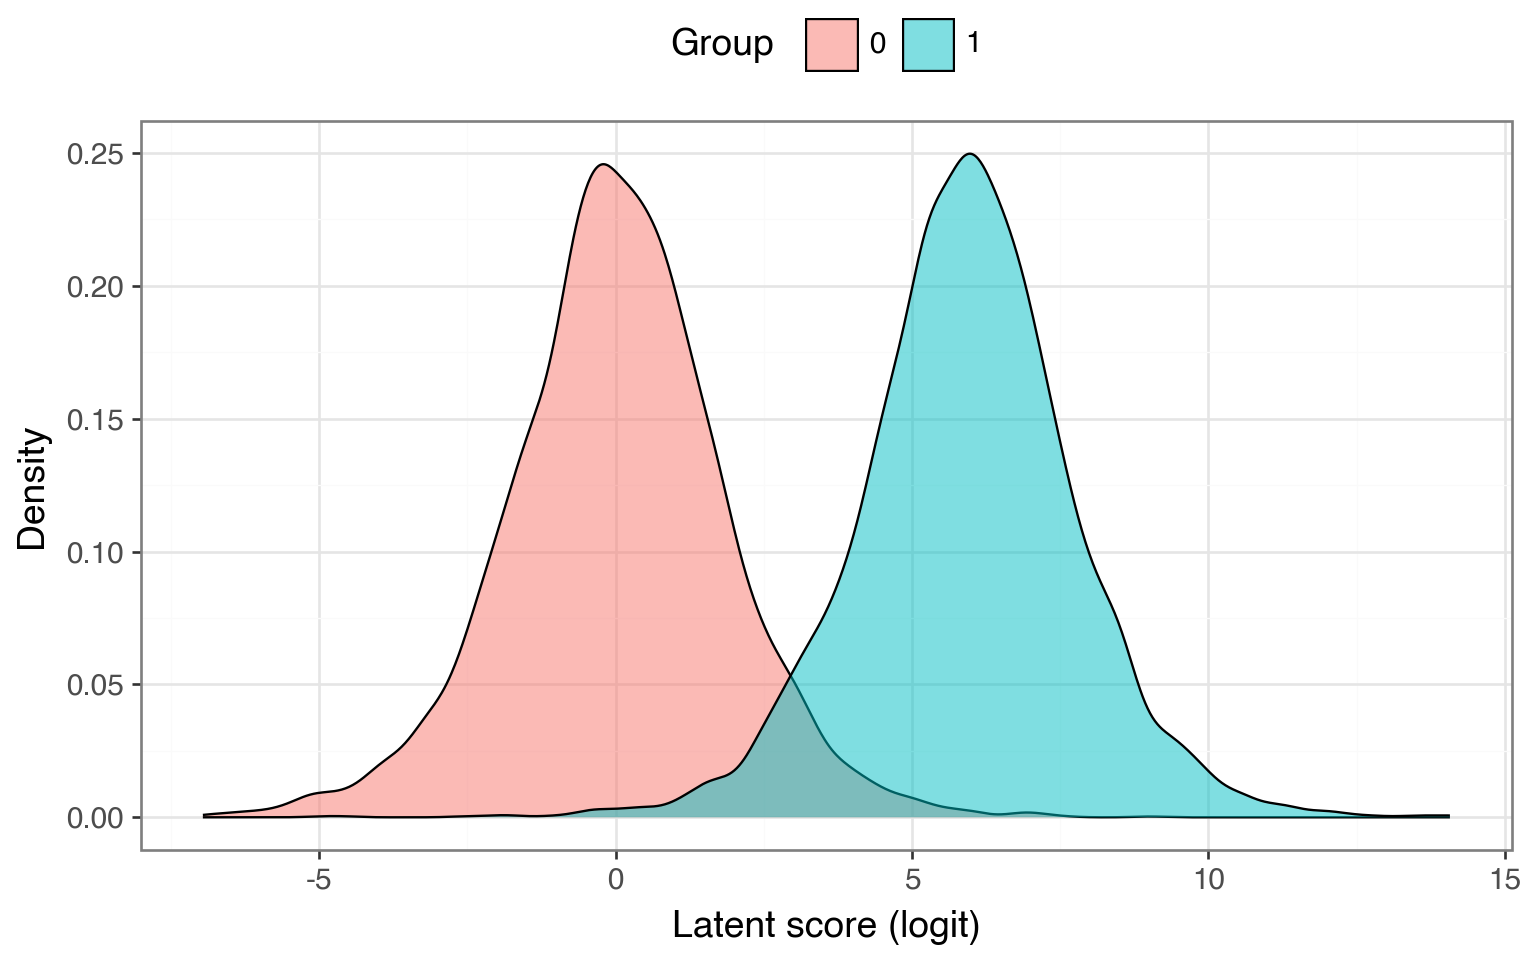
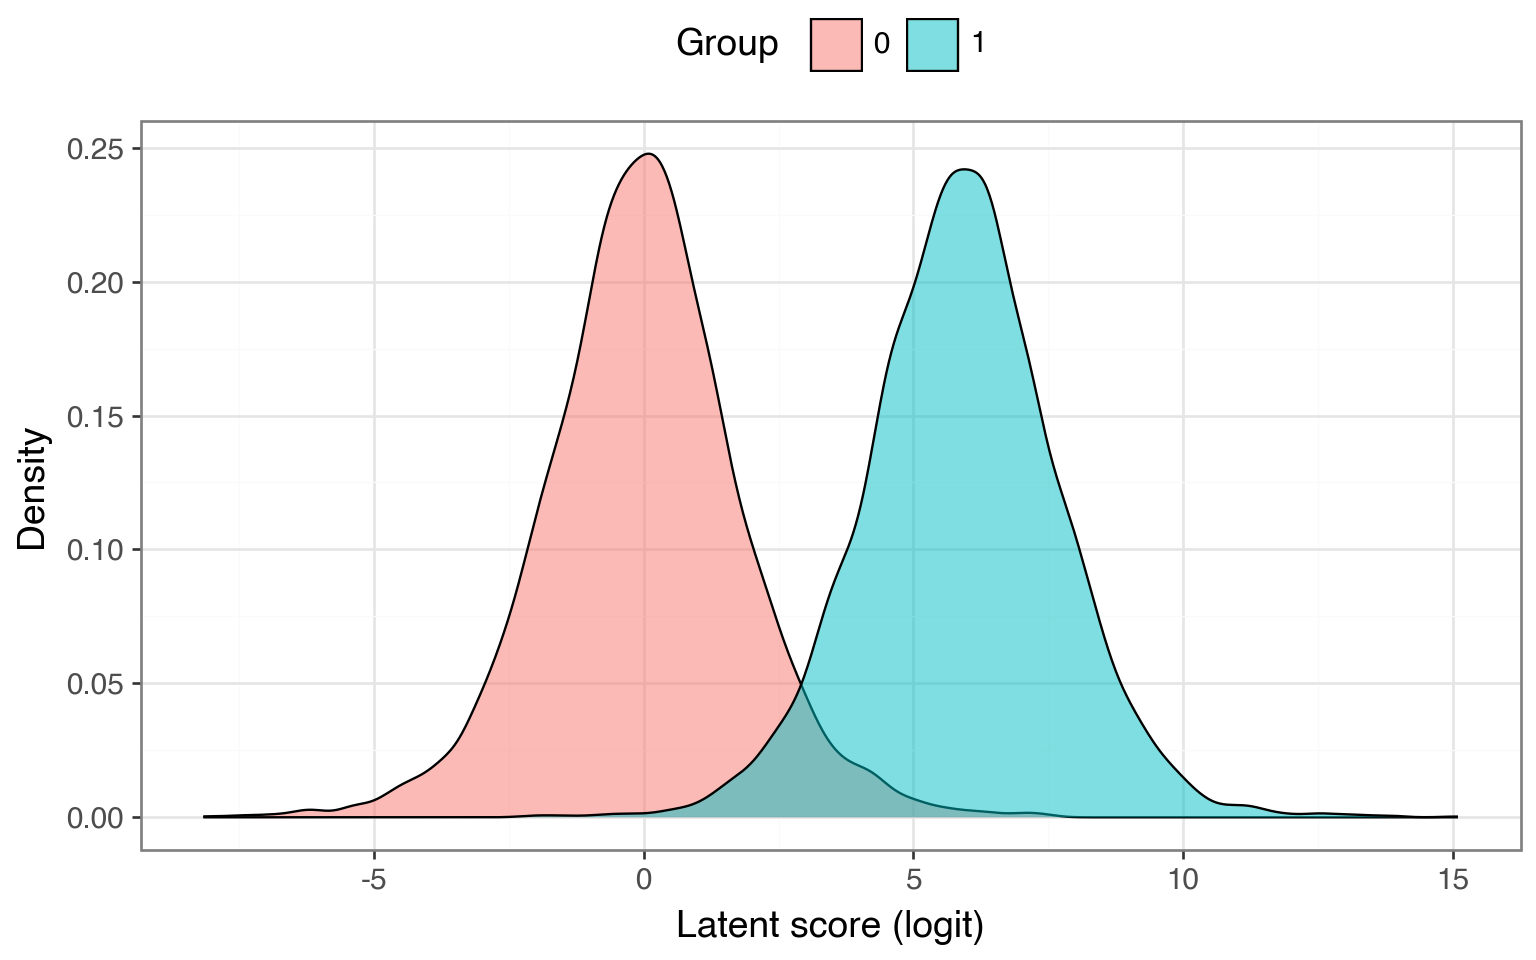
checkpoint: fix mu typo html

diff --git a/docs/posts/2026-03-31-recall-precision-tradeoff/index.html b/docs/posts/2026-03-31-recall-precision-tradeoff/index.html
@@ -305,7 +305,7 @@ p(y = 1 | \hat{y} = 1) &amp;= \frac{%
 \]</span></p>
 <p>and plug in the numbers from our table. But we can’t actually compute precision until we’ve specified the base rate of the positive and negative classes<a href="#fn1" class="footnote-ref" id="fnref1" role="doc-noteref"><sup>1</sup></a>. That’s <span class="math inline">\(p(y=1)\)</span> and <span class="math inline">\(p(y=0)\)</span> in the equation above. We know from existing data that the base rate of fraudulent transactions is less than 1%. Let’s round that up to 1% so that <span class="math inline">\(p(y=1) = 0.01\)</span> and <span class="math inline">\(p(y=0) = 0.99\)</span>.</p>
 <p>Now we can finally compute precision for our seemingly strong model</p>
-<div id="99e8ceb0" class="cell" data-execution_count="1">
+<div id="3e67bdd7" class="cell" data-execution_count="1">
 <div class="code-copy-outer-scaffold"><div class="sourceCode cell-code" id="cb1"><pre class="sourceCode python code-with-copy"><code class="sourceCode python"><span id="cb1-1"><a href="#cb1-1" aria-hidden="true" tabindex="-1"></a>tpr <span class="op">=</span> <span class="fl">0.95</span></span>
 <span id="cb1-2"><a href="#cb1-2" aria-hidden="true" tabindex="-1"></a>fpr <span class="op">=</span> <span class="fl">0.05</span></span>
 <span id="cb1-3"><a href="#cb1-3" aria-hidden="true" tabindex="-1"></a></span>
@@ -323,7 +323,7 @@ p(y = 1 | \hat{y} = 1) &amp;= \frac{%
 <h2 class="anchored" data-anchor-id="sweeping-through-different-rates">Sweeping through different rates</h2>
 <p>Okay, so we’ve seen just how bad precision can get with a very low base rate and a model that otherwise looks strong. Let’s build some intuition for what precision looks like across different combinations of TPR, FPR, and base rate. You’d expect that increasing TPR or base rate, or <em>decreasing</em> FPR, should improve precision — but by how much?</p>
 <p>To find out, we’ll apply the same Bayes’ theorem calculation to a grid of these rates. In the plot below, each panel fixes the FPR. The colored lines show how precision varies with TPR at different base rates.</p>
-<div id="4b1d15fc" class="cell" data-execution_count="2">
+<div id="e247c715" class="cell" data-execution_count="2">
 <details class="code-fold">
 <summary>Code</summary>
 <div class="code-copy-outer-scaffold"><div class="sourceCode cell-code" id="cb3"><pre class="sourceCode python code-with-copy"><code class="sourceCode python"><span id="cb3-1"><a href="#cb3-1" aria-hidden="true" tabindex="-1"></a><span class="im">import</span> numpy <span class="im">as</span> np</span>
@@ -381,7 +381,7 @@ p(y = 1 | \hat{y} = 1) &amp;= \frac{%
 <span id="cb3-53"><a href="#cb3-53" aria-hidden="true" tabindex="-1"></a>    )</span>
 <span id="cb3-54"><a href="#cb3-54" aria-hidden="true" tabindex="-1"></a>)</span></code></pre></div><button title="Copy to Clipboard" class="code-copy-button"><i class="bi"></i></button></div>
 </details>
-<div class="cell-output cell-output-display" data-execution_count="319">
+<div class="cell-output cell-output-display" data-execution_count="2">
 <div class="quarto-figure quarto-figure-center">
 <figure class="figure">
 <p><img src="index_files/figure-html/cell-3-output-1.png" class="quarto-figure quarto-figure-center figure-img" width="864" height="576"></p>
@@ -403,8 +403,8 @@ p(y = 1 | \hat{y} = 1) &amp;= \frac{%
 <p>To trace out the full trade-off, we need a model that produces actual scores we can threshold — not just a single pair of rates. A simple theoretical setup that lets us do this is the <a href="https://www.columbia.edu/~ld208/psymeth98.pdf"><em>bilogistic model</em></a>. The bilogistic model represents a binary classifier where the negative class yields scores from a <span class="math inline">\(\text{Logistic}(0, 1)\)</span> distribution and the positive class from a <span class="math inline">\(\text{Logistic}(\mu, 1)\)</span> distribution. The separation <span class="math inline">\(\mu\)</span> controls how good the model is — a larger <span class="math inline">\(\mu\)</span> indicates that the model is better at telling the two classes apart.</p>
 <section id="the-bilogistic-model" class="level2">
 <h2 class="anchored" data-anchor-id="the-bilogistic-model">The bilogistic model</h2>
-<p>Here’s what this model looks like with an arbitrary separation of <span class="math inline">\(\mu = 5\)</span>. Any vertical line we draw becomes a decision threshold <span class="math inline">\(t\)</span>. Everything to the right gets classified as positive and everything to the left gets classified as negative. Sliding <span class="math inline">\(t\)</span> left catches more true positives but also more false positives; sliding <span class="math inline">\(t\)</span> right does the opposite.</p>
-<div id="216ace4b" class="cell" data-execution_count="3">
+<p>Here’s what this model looks like with an arbitrary separation of <span class="math inline">\(\mu = 4\)</span>. Any vertical line we draw becomes a decision threshold <span class="math inline">\(t\)</span>. Everything to the right gets classified as positive and everything to the left gets classified as negative. Sliding <span class="math inline">\(t\)</span> left catches more true positives but also more false positives; sliding <span class="math inline">\(t\)</span> right does the opposite.</p>
+<div id="8e468aa4" class="cell" data-execution_count="3">
 <details class="code-fold">
 <summary>Code</summary>
 <div class="code-copy-outer-scaffold"><div class="sourceCode cell-code" id="cb4"><pre class="sourceCode python code-with-copy"><code class="sourceCode python"><span id="cb4-1"><a href="#cb4-1" aria-hidden="true" tabindex="-1"></a>mu_demo <span class="op">=</span> <span class="dv">4</span></span>
@@ -442,7 +442,7 @@ p(y = 1 | \hat{y} = 1) &amp;= \frac{%
 <span id="cb4-33"><a href="#cb4-33" aria-hidden="true" tabindex="-1"></a>    <span class="op">+</span> theme(legend_position<span class="op">=</span><span class="st">"top"</span>, figure_size<span class="op">=</span>(<span class="dv">8</span>, <span class="dv">5</span>))</span>
 <span id="cb4-34"><a href="#cb4-34" aria-hidden="true" tabindex="-1"></a>)</span></code></pre></div><button title="Copy to Clipboard" class="code-copy-button"><i class="bi"></i></button></div>
 </details>
-<div class="cell-output cell-output-display" data-execution_count="320">
+<div class="cell-output cell-output-display" data-execution_count="3">
 <div class="quarto-figure quarto-figure-center">
 <figure class="figure">
 <p><img src="index_files/figure-html/cell-4-output-1.png" class="quarto-figure quarto-figure-center figure-img" width="768" height="480"></p>
@@ -453,7 +453,7 @@ p(y = 1 | \hat{y} = 1) &amp;= \frac{%
 <p>Because TPR, FPR, and precision are all determined by where we place that threshold, we can sweep <span class="math inline">\(t\)</span> across the full range and trace out the complete trade-off.</p>
 <p>Using the bilogistic model, we can pick a <span class="math inline">\(\mu\)</span> such that there exists a threshold where TPR = 0.95 and FPR = 0.05 simultaneously — matching the model from the previous section. Once calibrated, we can see what happens at every operating point as we move <span class="math inline">\(t\)</span> from all the way to the left to all the way to the right.</p>
 <p>Here’s what the curves look like for our calibrated bilogistic model:</p>
-<div id="f87dfb9f" class="cell" data-execution_count="4">
+<div id="3dc2ccb4" class="cell" data-execution_count="4">
 <details class="code-fold">
 <summary>Code</summary>
 <div class="code-copy-outer-scaffold"><div class="sourceCode cell-code" id="cb5"><pre class="sourceCode python code-with-copy"><code class="sourceCode python"><span id="cb5-1"><a href="#cb5-1" aria-hidden="true" tabindex="-1"></a><span class="kw">def</span> get_loc_p(tnr: <span class="bu">float</span>, tpr: <span class="bu">float</span>) <span class="op">-&gt;</span> <span class="bu">float</span>:</span>
@@ -498,7 +498,7 @@ p(y = 1 | \hat{y} = 1) &amp;= \frac{%
 <span id="cb5-40"><a href="#cb5-40" aria-hidden="true" tabindex="-1"></a>    <span class="op">+</span> theme(legend_position<span class="op">=</span><span class="st">"top"</span>, figure_size<span class="op">=</span>(<span class="dv">8</span>, <span class="dv">5</span>))</span>
 <span id="cb5-41"><a href="#cb5-41" aria-hidden="true" tabindex="-1"></a>)</span></code></pre></div><button title="Copy to Clipboard" class="code-copy-button"><i class="bi"></i></button></div>
 </details>
-<div class="cell-output cell-output-display" data-execution_count="321">
+<div class="cell-output cell-output-display" data-execution_count="4">
 <div class="quarto-figure quarto-figure-center">
 <figure class="figure">
 <p><img src="index_files/figure-html/cell-5-output-1.png" class="quarto-figure quarto-figure-center figure-img" width="768" height="480"></p>
@@ -510,7 +510,7 @@ p(y = 1 | \hat{y} = 1) &amp;= \frac{%
 <section id="roc-and-precision-recall-curves" class="level2">
 <h2 class="anchored" data-anchor-id="roc-and-precision-recall-curves">ROC and Precision-Recall curves</h2>
 <p>Let’s compute both the ROC curve and the so-called Precision-Recall curve (where recall is just another name for TPR) by computing the TPR, FPR, and precision as we sweep <span class="math inline">\(t\)</span> across the two distribution.</p>
-<div id="8e7a9318" class="cell" data-execution_count="5">
+<div id="68fb66e1" class="cell" data-execution_count="5">
 <div class="code-copy-outer-scaffold"><div class="sourceCode cell-code" id="cb6"><pre class="sourceCode python code-with-copy"><code class="sourceCode python"><span id="cb6-1"><a href="#cb6-1" aria-hidden="true" tabindex="-1"></a>t <span class="op">=</span> np.arange(<span class="op">-</span><span class="dv">10</span>, <span class="dv">14</span>, <span class="fl">0.01</span>)</span>
 <span id="cb6-2"><a href="#cb6-2" aria-hidden="true" tabindex="-1"></a></span>
 <span id="cb6-3"><a href="#cb6-3" aria-hidden="true" tabindex="-1"></a><span class="co"># TPR and FPR are the RHS of the curve for the pos &amp; neg distributions</span></span>
@@ -519,7 +519,7 @@ p(y = 1 | \hat{y} = 1) &amp;= \frac{%
 <span id="cb6-6"><a href="#cb6-6" aria-hidden="true" tabindex="-1"></a></span>
 <span id="cb6-7"><a href="#cb6-7" aria-hidden="true" tabindex="-1"></a>auroc <span class="op">=</span> <span class="op">-</span>np.trapezoid(tpr, fpr)</span></code></pre></div><button title="Copy to Clipboard" class="code-copy-button"><i class="bi"></i></button></div>
 </div>
-<div id="7ba8abff" class="cell" data-execution_count="6">
+<div id="c5efc1ec" class="cell" data-execution_count="6">
 <details class="code-fold">
 <summary>Code</summary>
 <div class="code-copy-outer-scaffold"><div class="sourceCode cell-code" id="cb7"><pre class="sourceCode python code-with-copy"><code class="sourceCode python"><span id="cb7-1"><a href="#cb7-1" aria-hidden="true" tabindex="-1"></a>roc_df <span class="op">=</span> pl.DataFrame({<span class="st">"x"</span>: fpr, <span class="st">"y"</span>: tpr})</span>
@@ -570,7 +570,7 @@ p(y = 1 | \hat{y} = 1) &amp;= \frac{%
 <span id="cb7-46"><a href="#cb7-46" aria-hidden="true" tabindex="-1"></a></span>
 <span id="cb7-47"><a href="#cb7-47" aria-hidden="true" tabindex="-1"></a>(roc_p <span class="op">/</span> pr_p) <span class="op">+</span> theme(figure_size<span class="op">=</span>(<span class="dv">8</span>, <span class="dv">8</span>))</span></code></pre></div><button title="Copy to Clipboard" class="code-copy-button"><i class="bi"></i></button></div>
 </details>
-<div class="cell-output cell-output-display" data-execution_count="323">
+<div class="cell-output cell-output-display" data-execution_count="6">
 <div class="quarto-figure quarto-figure-center">
 <figure class="figure">
 <p><img src="index_files/figure-html/cell-7-output-1.png" class="quarto-figure quarto-figure-center figure-img" width="768" height="768"></p>
@@ -614,7 +614,7 @@ y_i &amp;= \begin{cases}
 \]</span></p>
 <p>The latent score <span class="math inline">\(y^*\)</span> is exactly the logit-scale quantity from our bilogistic model. For the negative class (<span class="math inline">\(X\beta = 0\)</span>), latent scores follow a Logistic<span class="math inline">\((0, 1)\)</span> distribution. For the positive class (<span class="math inline">\(X\beta = \mu\)</span>), they follow a Logistic<span class="math inline">\((\mu, 1)\)</span>. The threshold at 0 plays the role of our decision boundary. In other words, every time you fit a logistic regression, you’re implicitly working inside the bilogistic framework — and the base-rate ceiling on precision applies directly to your model’s predictions.</p>
 <p>Let’s verify this correspondence by simulating data from the latent variable model using the same separation <span class="math inline">\(\mu\)</span> we calibrated earlier, then fitting a logistic regression to recover <span class="math inline">\(\mu\)</span>.</p>
-<div id="6d6ea515" class="cell" data-execution_count="7">
+<div id="635dc3e9" class="cell" data-execution_count="7">
 <div class="code-copy-outer-scaffold"><div class="sourceCode cell-code" id="cb8"><pre class="sourceCode python code-with-copy"><code class="sourceCode python"><span id="cb8-1"><a href="#cb8-1" aria-hidden="true" tabindex="-1"></a>n <span class="op">=</span> <span class="dv">10_000</span></span>
 <span id="cb8-2"><a href="#cb8-2" aria-hidden="true" tabindex="-1"></a>group <span class="op">=</span> np.repeat([<span class="dv">0</span>, <span class="dv">1</span>], n <span class="op">//</span> <span class="dv">2</span>)</span>
 <span id="cb8-3"><a href="#cb8-3" aria-hidden="true" tabindex="-1"></a>X <span class="op">=</span> np.column_stack([np.ones(n), group])</span>
@@ -629,7 +629,7 @@ y_i &amp;= \begin{cases}
 <span id="cb8-12"><a href="#cb8-12" aria-hidden="true" tabindex="-1"></a>})</span></code></pre></div><button title="Copy to Clipboard" class="code-copy-button"><i class="bi"></i></button></div>
 </div>
 <p>The density of the latent scores by group recovers the same two-distribution picture we saw earlier:</p>
-<div id="4d4a4f5d" class="cell" data-execution_count="8">
+<div id="c461c890" class="cell" data-execution_count="8">
 <details class="code-fold">
 <summary>Code</summary>
 <div class="code-copy-outer-scaffold"><div class="sourceCode cell-code" id="cb9"><pre class="sourceCode python code-with-copy"><code class="sourceCode python"><span id="cb9-1"><a href="#cb9-1" aria-hidden="true" tabindex="-1"></a>(</span>
@@ -640,7 +640,7 @@ y_i &amp;= \begin{cases}
 <span id="cb9-6"><a href="#cb9-6" aria-hidden="true" tabindex="-1"></a>    <span class="op">+</span> theme(legend_position<span class="op">=</span><span class="st">"top"</span>, figure_size<span class="op">=</span>(<span class="dv">8</span>, <span class="dv">5</span>))</span>
 <span id="cb9-7"><a href="#cb9-7" aria-hidden="true" tabindex="-1"></a>)</span></code></pre></div><button title="Copy to Clipboard" class="code-copy-button"><i class="bi"></i></button></div>
 </details>
-<div class="cell-output cell-output-display" data-execution_count="325">
+<div class="cell-output cell-output-display" data-execution_count="8">
 <div class="quarto-figure quarto-figure-center">
 <figure class="figure">
 <p><img src="index_files/figure-html/cell-9-output-1.png" class="quarto-figure quarto-figure-center figure-img" width="768" height="480"></p>
@@ -649,7 +649,7 @@ y_i &amp;= \begin{cases}
 </div>
 </div>
 <p>Now let’s threshold <span class="math inline">\(y^*\)</span> at 0 to get the observed binary outcome and fit a logistic regression. If the models correspond, the estimated group coefficient should land close to <span class="math inline">\(\mu \approx\)</span> 5.89.</p>
-<div id="af6ebf0a" class="cell" data-execution_count="9">
+<div id="331785fb" class="cell" data-execution_count="9">
 <div class="code-copy-outer-scaffold"><div class="sourceCode cell-code" id="cb10"><pre class="sourceCode python code-with-copy"><code class="sourceCode python"><span id="cb10-1"><a href="#cb10-1" aria-hidden="true" tabindex="-1"></a><span class="im">import</span> statsmodels.api <span class="im">as</span> sm</span>
 <span id="cb10-2"><a href="#cb10-2" aria-hidden="true" tabindex="-1"></a></span>
 <span id="cb10-3"><a href="#cb10-3" aria-hidden="true" tabindex="-1"></a>yobs <span class="op">=</span> (ystar <span class="op">&gt;</span> <span class="dv">0</span>).astype(<span class="bu">int</span>)</span>
@@ -657,22 +657,22 @@ y_i &amp;= \begin{cases}
 <span id="cb10-5"><a href="#cb10-5" aria-hidden="true" tabindex="-1"></a><span class="bu">print</span>(model.summary())</span></code></pre></div><button title="Copy to Clipboard" class="code-copy-button"><i class="bi"></i></button></div>
 <div class="cell-output cell-output-stdout">
 <pre><code>Optimization terminated successfully.
-         Current function value: 0.358479
+         Current function value: 0.354399
          Iterations 10
                            Logit Regression Results                           
 ==============================================================================
 Dep. Variable:                      y   No. Observations:                10000
 Model:                          Logit   Df Residuals:                     9998
 Method:                           MLE   Df Model:                            1
-Date:                Mon, 06 Apr 2026   Pseudo R-squ.:                  0.3620
-Time:                        20:28:11   Log-Likelihood:                -3584.8
-converged:                       True   LL-Null:                       -5619.0
+Date:                Mon, 06 Apr 2026   Pseudo R-squ.:                  0.3725
+Time:                        20:38:54   Log-Likelihood:                -3544.0
+converged:                       True   LL-Null:                       -5647.4
 Covariance Type:            nonrobust   LLR p-value:                     0.000
 ==============================================================================
                  coef    std err          z      P&gt;|z|      [0.025      0.975]
 ------------------------------------------------------------------------------
-const          0.0176      0.028      0.622      0.534      -0.038       0.073
-x1             5.6056      0.238     23.571      0.000       5.140       6.072
+const         -0.0088      0.028     -0.311      0.756      -0.064       0.047
+x1             6.1259      0.303     20.206      0.000       5.532       6.720
 ==============================================================================</code></pre>
 </div>
 </div>
